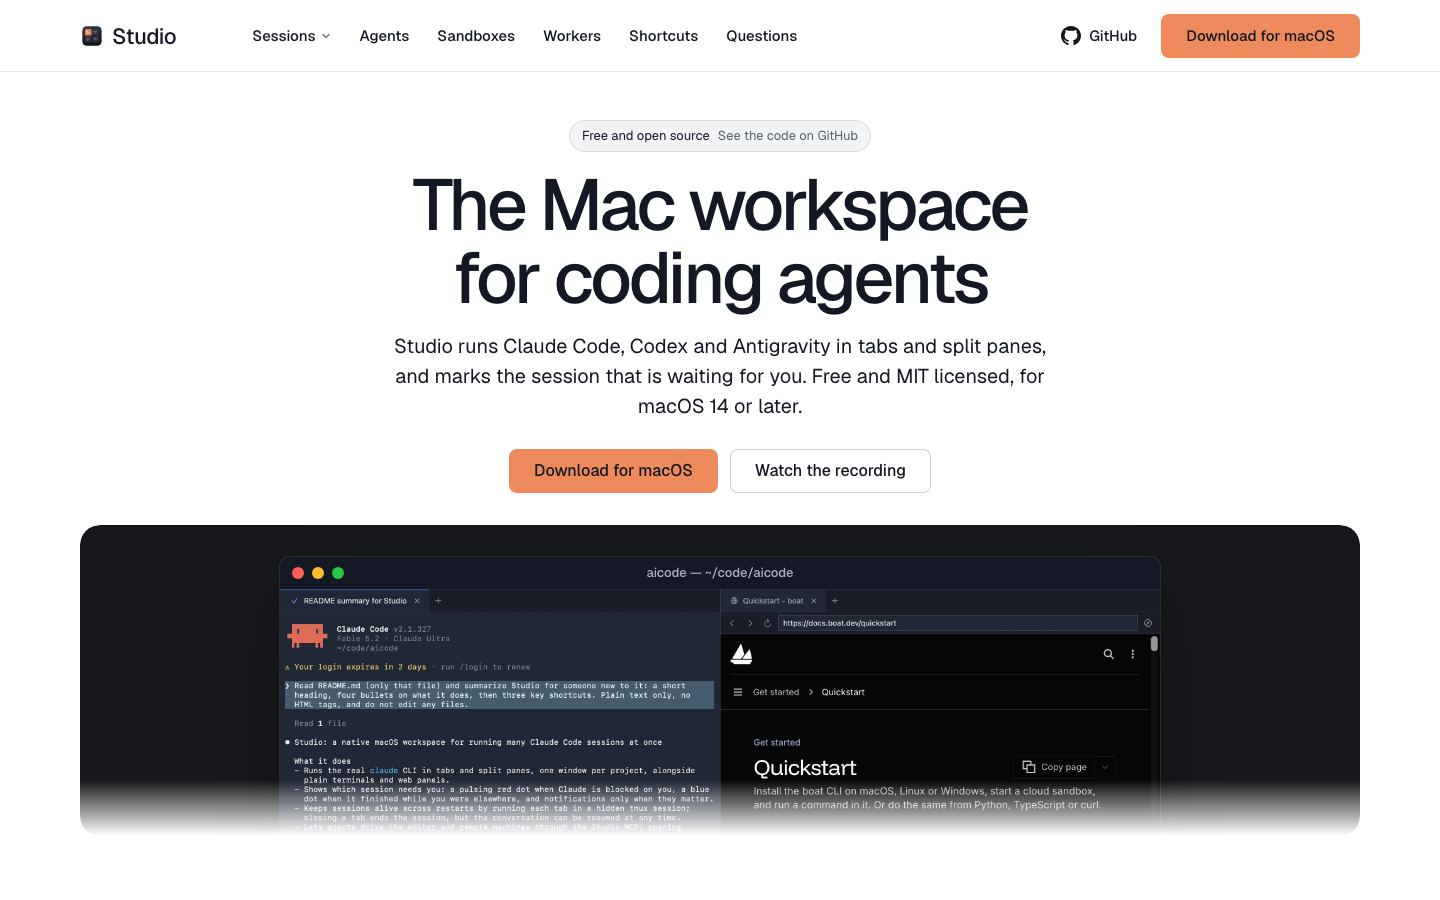
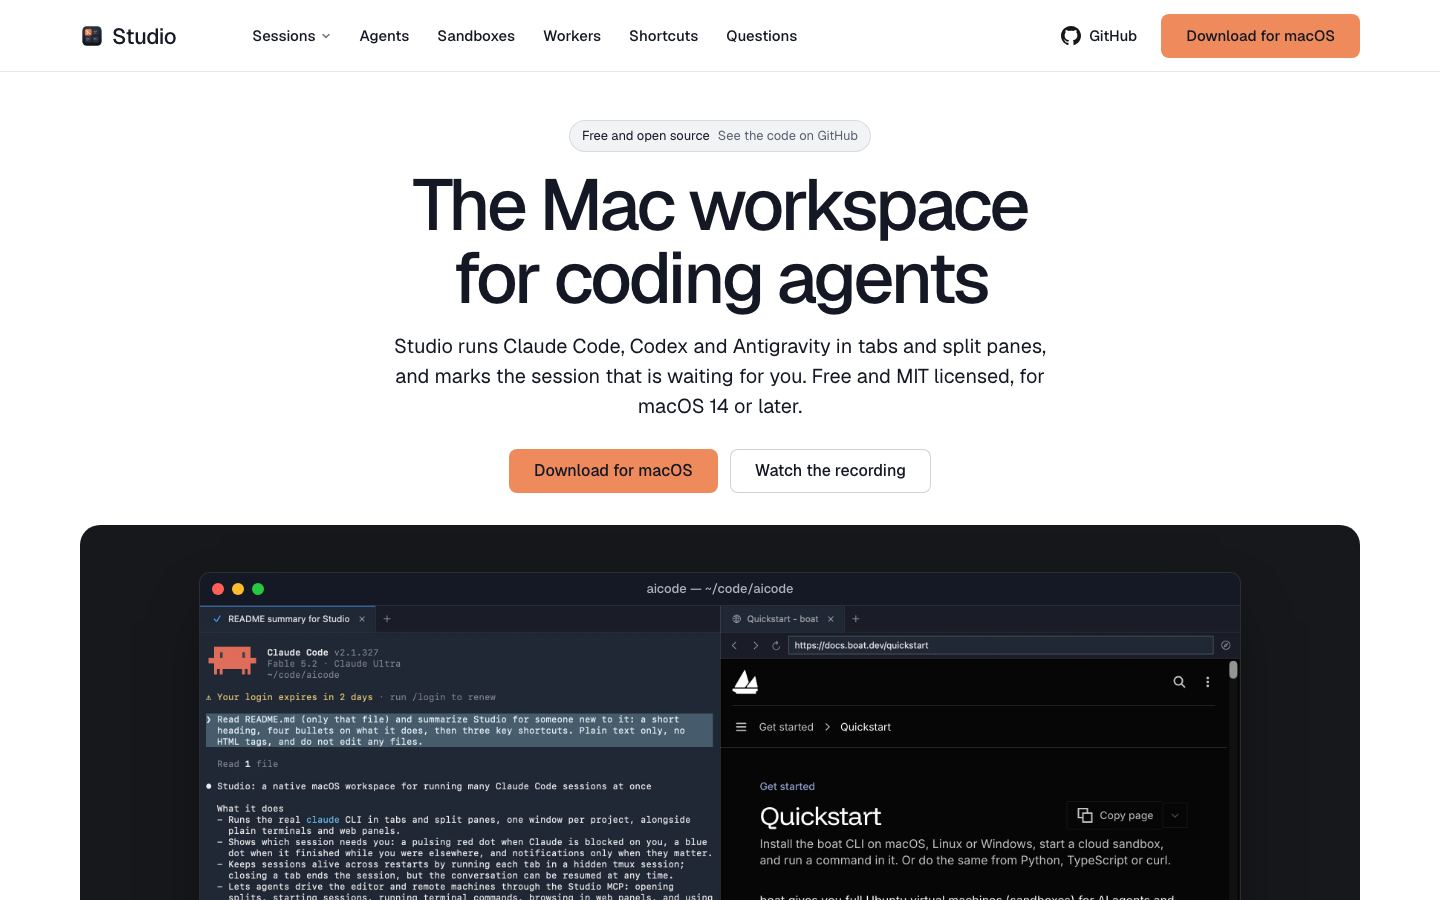
Website: the hero shows its whole window instead of cutting it at the fold, a gap under the sessions heading, and the recording fits its box on phones

Changed region(s): [[0.0312, 0.6222, 0.9688, 1.0]]

diff --git a/website/index.html b/website/index.html
@@ -64,6 +64,18 @@
   /* the hero's painted ground when WebGL is not there, and the app window on it */
   /* the ground behind every window: one flat soft black */
   .hero--centred .hero__window, #sessions .frame, #themes .frame, .panel:has(> .mac) { background: #17181b !important; border: 0; }
+  /* the hero shows its window whole: the frame grows to hold it, so the hero is taller than one screen */
+  main > section.hero.hero--centred { height: auto; min-height: 100svh; }
+  .hero--centred .hero__window { flex: none; min-height: 0; padding: var(--s-7); -webkit-mask-image: none; mask-image: none; display: grid; justify-items: center; }
+  .hero--centred .hero__window > .ly-piece { position: static; transform: none; width: min(1040px, 100%); }
+  @media (max-width: 639px) {
+    .hero--centred .hero__window { padding: var(--s-4); -webkit-mask-image: none; mask-image: none; min-height: 0; }
+    .hero--centred .hero__window > .ly-piece { width: 100%; }
+    main #sessions .frame { padding: var(--s-4); }
+    main #sessions .frame > .mac { height: auto; width: 100%; aspect-ratio: auto; }
+    main #sessions .mac__film { flex: none; aspect-ratio: 1920 / 1196; }
+    .mac .mac__bar span { padding-left: 56px; }
+  }
   .t-label { font-family: var(--font-mono); }
   /* every capture sits in a Mac window: the bar with its three lights, then the capture at half its pixel width */
   .mac { border-radius: 10px; overflow: hidden; background: #1d2230; box-shadow: 0 0 0 1px rgb(255 255 255 / .1), 0 28px 60px -20px rgb(0 0 0 / .7); display: flex; flex-direction: column; }
@@ -76,6 +88,7 @@
   .panel > .mac { position: absolute; top: 50%; left: 50%; translate: -50% -50%; width: min(500px, calc(100% - 48px)); max-height: calc(100% - 32px); }
 
   /* the recording: one frame that takes what the screen leaves under the heading */
+  #sessions .section-head--grid { margin-bottom: var(--s-7); }
   #sessions .frame { padding: var(--s-6); align-items: center; }
   #sessions .frame > .mac { height: 100%; aspect-ratio: 1920 / 1270; max-width: 100%; }
   .mac__film { flex: 1; min-height: 0; overflow: hidden; }
